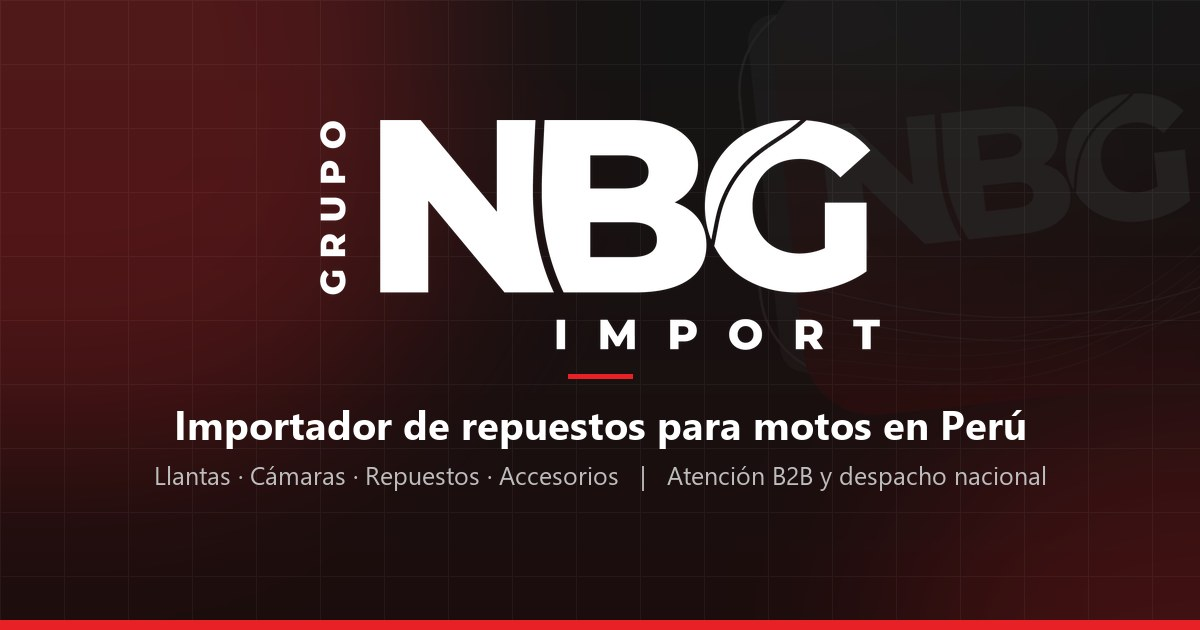
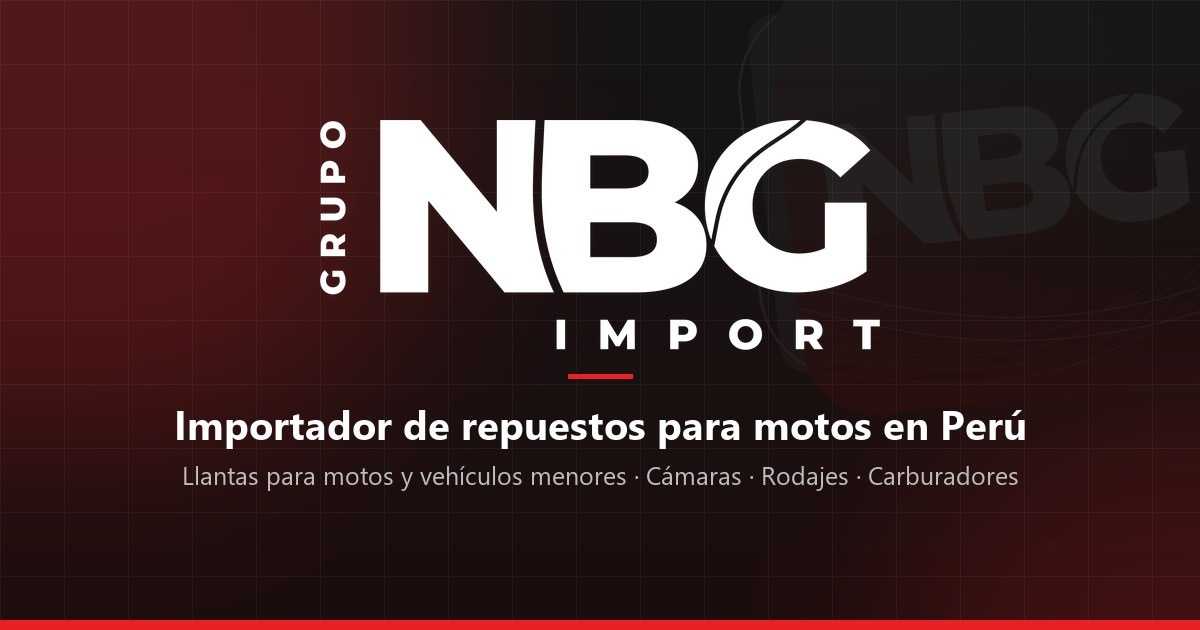
feat: align product lines with what NBG imports today
- Portfolio: Llantas para vehículos menores (moto, ATV, UTV, scooter y
  moto eléctrica), Cámaras, Rodajes, Carburadores; drop Repuestos and
  Accesorios; Rodajes no longer includes transmission kits
- New bearings-only photo; remove unused repuestos/accesorios images
- Hero, form options, footer, FAQ, Soluciones, Why-us, SAHM card,
  meta descriptions, JSON-LD and og-cover updated to the same lines

Changed region(s): [[0.1233, 0.7238, 0.8633, 0.7841]]

diff --git a/index.html b/index.html
@@ -4,7 +4,7 @@
     <meta charset="UTF-8" />
     <meta name="viewport" content="width=device-width, initial-scale=1.0" />
     <title>Grupo NBG Import | Importador de Repuestos para Motos en Perú</title>
-    <meta name="description" content="Importamos y distribuimos repuestos, llantas, cámaras y accesorios para motos en Perú. Marcas CST Tires, SAHM y NBG Parts. Cotiza por WhatsApp." />
+    <meta name="description" content="Importamos y distribuimos llantas para motos y vehículos menores (ATV, UTV, scooters y motos eléctricas), cámaras, rodajes y carburadores en Perú. Cotiza por WhatsApp." />
     <meta name="robots" content="index, follow, max-image-preview:large" />
     <meta name="author" content="Grupo NBG Import" />
     <meta name="theme-color" content="#020617" />
@@ -18,7 +18,7 @@
     <meta property="og:locale" content="es_PE" />
     <meta property="og:site_name" content="Grupo NBG Import" />
     <meta property="og:title" content="Grupo NBG Import | Importador de Repuestos para Motos en Perú" />
-    <meta property="og:description" content="Importamos y distribuimos repuestos, llantas, cámaras y accesorios para motos en Perú. Cotiza por WhatsApp." />
+    <meta property="og:description" content="Importamos y distribuimos llantas para motos y vehículos menores (ATV, UTV, scooters y motos eléctricas), cámaras, rodajes y carburadores en Perú. Cotiza por WhatsApp." />
     <meta property="og:url" content="https://www.gruponbgimport.com/" />
     <meta property="og:image" content="https://www.gruponbgimport.com/og-cover.jpg" />
     <meta property="og:image:secure_url" content="https://www.gruponbgimport.com/og-cover.jpg" />
@@ -29,7 +29,7 @@
 
     <meta name="twitter:card" content="summary_large_image" />
     <meta name="twitter:title" content="Grupo NBG Import | Importador de Repuestos para Motos en Perú" />
-    <meta name="twitter:description" content="Importamos y distribuimos repuestos, llantas, cámaras y accesorios para motos en Perú." />
+    <meta name="twitter:description" content="Importamos y distribuimos llantas para motos y vehículos menores (ATV, UTV, scooters y motos eléctricas), cámaras, rodajes y carburadores en Perú." />
     <meta name="twitter:image" content="https://www.gruponbgimport.com/og-cover.jpg" />
     <meta name="twitter:image:alt" content="Grupo NBG Import - importación y distribución de repuestos automotrices en Perú" />
 
@@ -108,10 +108,10 @@
               "name": "Perú"
             },
             "makesOffer": [
-              { "@type": "Offer", "itemOffered": { "@type": "Product", "name": "Llantas para motos" } },
+              { "@type": "Offer", "itemOffered": { "@type": "Product", "name": "Llantas para motos y vehículos menores (ATV, UTV, scooter eléctrico, moto eléctrica)" } },
               { "@type": "Offer", "itemOffered": { "@type": "Product", "name": "Cámaras para motos" } },
-              { "@type": "Offer", "itemOffered": { "@type": "Product", "name": "Repuestos para motos" } },
-              { "@type": "Offer", "itemOffered": { "@type": "Product", "name": "Accesorios para motos" } }
+              { "@type": "Offer", "itemOffered": { "@type": "Product", "name": "Rodajes" } },
+              { "@type": "Offer", "itemOffered": { "@type": "Product", "name": "Carburadores" } }
             ]
           },
           {
@@ -123,7 +123,7 @@
                 "name": "¿Grupo NBG Import vende repuestos para motos al por mayor?",
                 "acceptedAnswer": {
                   "@type": "Answer",
-                  "text": "Sí. Atendemos talleres, tiendas, distribuidores y empresas que necesitan abastecimiento de repuestos para motos, llantas, cámaras, rodajes, carburadores y accesorios en Perú."
+                  "text": "Sí. Atendemos talleres, tiendas, distribuidores y empresas que necesitan abastecimiento de llantas para motos y vehículos menores, cámaras, rodajes y carburadores en Perú."
                 }
               },
               {

diff --git a/src/components/PortafolioComercial.jsx b/src/components/PortafolioComercial.jsx
@@ -1,39 +1,29 @@
-const categories = [
+// Líneas que la empresa importa actualmente. Si se agrega una línea nueva, sumarla aquí,
+// en el formulario de contacto (App.jsx) y en el JSON-LD de index.html.
+const categories = [
   {
     image: '/images/catalogo/cat-llantas.webp',
-    alt: 'Llantas para motos apiladas',
-    title: 'Llantas para motos',
-    text: 'Opciones urbanas, trabajo y uso comercial, incluyendo líneas CST Tires Perú.',
+    alt: 'Llantas para motos y vehículos menores',
+    title: 'Llantas para vehículos menores',
+    text: 'Para moto, ATV, UTV, scooter eléctrico y moto eléctrica, incluyendo líneas CST Tires Perú.',
   },
   {
     image: '/images/catalogo/cat-camaras.webp',
     alt: 'Cámaras de aire para motos',
-    title: 'Cámaras para motos',
+    title: 'Cámaras',
     text: 'Medidas de rotación para tiendas, talleres y compras recurrentes.',
   },
   {
-    image: '/images/catalogo/cat-repuestos.webp',
-    alt: 'Pastillas de freno, bujías, filtros y cables para motos',
-    title: 'Repuestos para motos',
-    text: 'Componentes importados para mantenimiento, reparación y atención recurrente.',
-  },
-  {
     image: '/images/catalogo/cat-rodajes.webp',
-    alt: 'Cadena, piñones y rodajes para motos',
-    title: 'Rodajes y transmisión',
-    text: 'Líneas para mantenimiento preventivo, reparación y reposición comercial.',
+    alt: 'Rodajes de distintas medidas',
+    title: 'Rodajes',
+    text: 'Medidas de alta rotación para mantenimiento, reparación y reposición comercial.',
   },
   {
     image: '/images/catalogo/cat-carburadores.webp',
     alt: 'Carburadores para motos',
-    title: 'Carburadores y partes',
-    text: 'Soluciones para marcas del mercado motero peruano como Honda, Yamaha, Bajaj y TVS.',
-  },
-  {
-    image: '/images/catalogo/cat-accesorios.webp',
-    alt: 'Espejos, puños y direccionales para motos',
-    title: 'Accesorios para motos',
-    text: 'Productos complementarios para venta comercial y abastecimiento B2B.',
+    title: 'Carburadores',
+    text: 'Para marcas del mercado motero peruano como Honda, Yamaha, Bajaj y TVS.',
   },
 ];
 
@@ -43,9 +33,9 @@ export function PortafolioComercial() {
       <div className="mx-auto max-w-[1200px]">
         <div className="grid gap-10 lg:grid-cols-[0.8fr_1.2fr] lg:items-end">
           <div>
-            <h2 className="text-4xl font-black leading-[0.95] text-white sm:text-6xl">Portafolio de repuestos, llantas y accesorios para motos</h2>
+            <h2 className="text-4xl font-black leading-[0.95] text-white sm:text-6xl">Llantas, cámaras, rodajes y carburadores</h2>
             <p className="mt-4 text-base leading-[1.6] text-[#B8B8B8]">
-              Categorías pensadas para abastecimiento, rotación y compras recurrentes de talleres, tiendas y distribuidores en Perú.
+              Líneas importadas para abastecimiento, rotación y compras recurrentes de talleres, tiendas y distribuidores en Perú.
             </p>
           </div>
           <a
@@ -56,7 +46,7 @@ export function PortafolioComercial() {
           </a>
         </div>
 
-        <ul className="mt-12 grid gap-x-6 gap-y-10 sm:grid-cols-2 lg:grid-cols-3">
+        <ul className="mt-12 grid gap-x-6 gap-y-10 sm:grid-cols-2 lg:grid-cols-4">
           {categories.map((item) => (
             <li key={item.title}>
               <img

diff --git a/src/App.jsx b/src/App.jsx
@@ -780,7 +780,7 @@ export default function App() {
                           <option className="bg-[#101010]" value="">
                             Selecciona una opción
                           </option>
-                          {['Llantas para motos', 'Cámaras para motos', 'Repuestos para motos', 'Rodajes y transmisión', 'Carburadores', 'Accesorios para motos', 'CST Tires Perú', 'SAHM Parts', 'NBG Parts', 'Otra / No sé'].map((option) => (
+                          {['Llantas para vehículos menores', 'Cámaras', 'Rodajes', 'Carburadores', 'CST Tires Perú', 'SAHM Parts', 'NBG Parts', 'Otra / No sé'].map((option) => (
                             <option key={option} className="bg-[#101010]" value={option}>
                               {option}
                             </option>
@@ -896,7 +896,7 @@ export default function App() {
                 decoding="async"
               />
               <p className="mt-4 max-w-md text-sm leading-7 text-[#B8B8B8]">
-                Importador y distribuidor B2B de repuestos para motos, llantas, cámaras, accesorios y motopartes para talleres, tiendas, distribuidores y empresas en Perú.
+                Importador y distribuidor B2B de llantas para motos y vehículos menores, cámaras, rodajes y carburadores para talleres, tiendas, distribuidores y empresas en Perú.
               </p>
               <div className="mt-5 grid max-w-md grid-cols-2 gap-2 text-[11px] font-semibold uppercase tracking-[0.14em] text-white/70">
                 {['Importación directa', 'Atención B2B', 'Despacho nacional', 'Portafolio moto'].map((item) => (

diff --git a/src/components/HeroNBG.jsx b/src/components/HeroNBG.jsx
@@ -3,7 +3,7 @@ import { motion, useReducedMotion } from 'framer-motion';
 
 const trustItems = ['Importación directa', 'Atención a negocios', 'Despacho a todo el Perú', 'Marcas especializadas'];
 
-const productLines = ['Llantas', 'Cámaras', 'Rodajes', 'Carburadores', 'Accesorios'];
+const productLines = ['Llantas', 'Cámaras', 'Rodajes', 'Carburadores'];
 
 // Hero: un solo momento de movimiento (entrada de texto y foto) y la foto de producto como protagonista.
 export function HeroNBG({ onAction }) {
@@ -30,7 +30,7 @@ export function HeroNBG({ onAction }) {
           </h1>
 
           <p className="mt-6 max-w-xl text-base leading-[1.6] text-[#B8B8B8] sm:text-lg">
-            Abastecemos a talleres, tiendas, distribuidores y empresas con repuestos para motos al por mayor, llantas, cámaras, rodajes, carburadores y accesorios importados con respaldo comercial.
+            Abastecemos a talleres, tiendas, distribuidores y empresas con llantas para motos y vehículos menores, cámaras, rodajes y carburadores importados, al por mayor y con respaldo comercial.
           </p>
 
           <div className="mt-8 flex flex-col gap-3 sm:flex-row">

diff --git a/src/components/FAQ.jsx b/src/components/FAQ.jsx
@@ -5,7 +5,7 @@ const faqs = [
   {
     question: '¿Grupo NBG Import vende repuestos para motos al por mayor?',
     answer:
-      'Sí. Atendemos talleres, tiendas, distribuidores y empresas que necesitan abastecimiento de repuestos para motos, llantas, cámaras, rodajes, carburadores y accesorios en Perú.',
+      'Sí. Atendemos talleres, tiendas, distribuidores y empresas que necesitan abastecimiento de llantas para motos y vehículos menores, cámaras, rodajes y carburadores en Perú.',
   },
   {
     question: '¿Hacen envíos fuera de Lima?',
@@ -47,7 +47,7 @@ export function FAQ() {
       <div className="mx-auto max-w-[720px]">
         <div className="text-center">
           <h2 className="text-4xl font-black leading-tight text-white sm:text-5xl">Preguntas frecuentes</h2>
-          <p className="mt-3 text-[15px] text-white/70">Todo lo que necesitas saber antes de cotizar repuestos, llantas y accesorios para motos.</p>
+          <p className="mt-3 text-[15px] text-white/70">Todo lo que necesitas saber antes de cotizar llantas, cámaras, rodajes y carburadores.</p>
         </div>
 
         <div className="mt-10">

diff --git a/src/components/ui/why-us-tabs.tsx b/src/components/ui/why-us-tabs.tsx
@@ -51,10 +51,10 @@ const tabs: WhyUsItem[] = [
     label: 'Especialistas en motos',
     icon: Bike,
     image: '/images/why-us/especialistas-en-motos.webp',
-    imageAlt: 'Motocicleta moderna con mecánico especializado, llantas, repuestos y accesorios',
+    imageAlt: 'Motocicleta moderna con mecánico especializado',
     title: 'Conocemos el mercado de motocicletas desde dentro.',
     description:
-      'Trabajamos con marcas enfocadas en llantas, repuestos y accesorios para motos, conectando soluciones comerciales con las necesidades reales de motociclistas, talleres y distribuidores.',
+      'Trabajamos con marcas enfocadas en llantas, cámaras, rodajes y carburadores para motos y vehículos menores, conectando soluciones comerciales con las necesidades reales de motociclistas, talleres y distribuidores.',
     cta: 'Explorar soluciones',
     href: '#contacto',
   },

diff --git a/src/components/ui/brand-grid.tsx b/src/components/ui/brand-grid.tsx
@@ -41,8 +41,8 @@ const brands: Brand[] = [
   {
     id: 'sahm',
     name: 'SAHM Parts',
-    category: 'Repuestos y accesorios',
-    description: 'Cámaras, carburadores, repuestos y accesorios para abastecimiento comercial del mercado motero peruano.',
+    category: 'Cámaras, rodajes y carburadores',
+    description: 'Cámaras, rodajes y carburadores para abastecimiento comercial del mercado motero peruano.',
     cta: 'Visitar SAHM Parts',
     href: 'https://sahmparts.com',
     image: '/images/brands/sahm-parts.jpg',

diff --git a/src/components/SolucionesNegocios.jsx b/src/components/SolucionesNegocios.jsx
@@ -9,7 +9,7 @@ const solutions = [
   {
     icon: Store,
     title: 'Tiendas de repuestos',
-    text: 'Líneas de alta rotación para ampliar vitrina: cámaras, rodajes, accesorios y motopartes importadas.',
+    text: 'Líneas de alta rotación para ampliar vitrina: llantas, cámaras, rodajes y carburadores importados.',
   },
   {
     icon: Factory,
